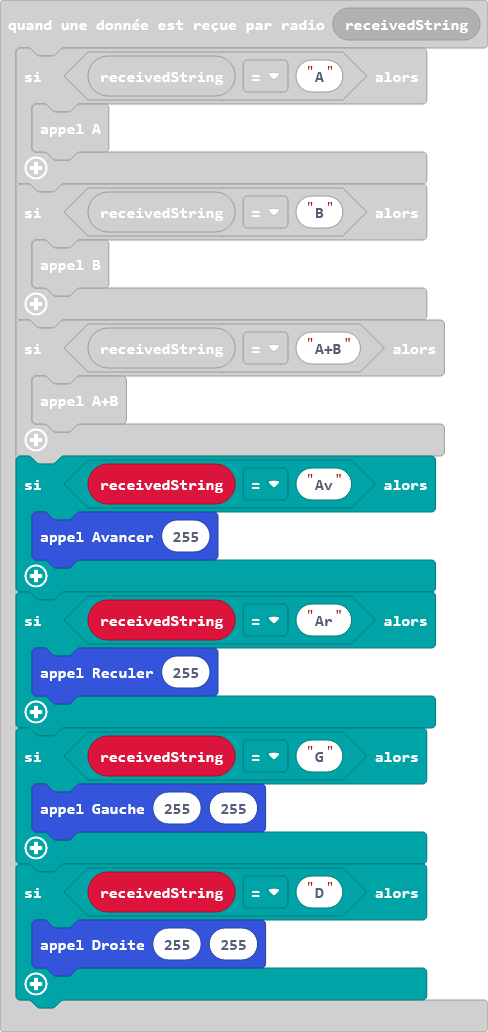
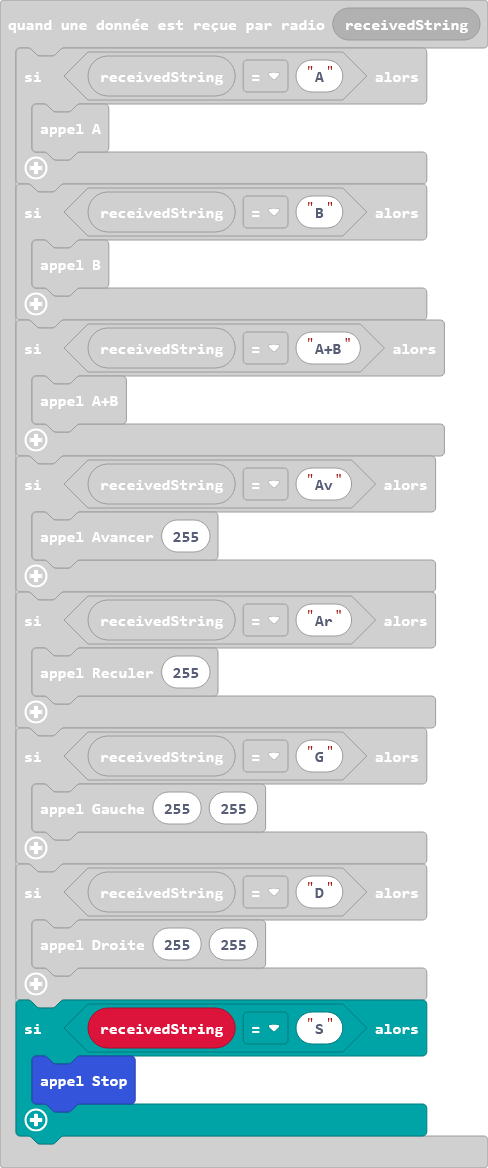
Mise à jour main.blocks, main.ts

diff --git a/main.ts b/main.ts
@@ -68,6 +68,9 @@ radio.onReceivedString(function (receivedString) {
     if (receivedString == "D") {
         Droite(255, 255)
     }
+    if (receivedString == "S") {
+        Stop()
+    }
 })
 function Avancer (vitesse: number) {
     basic.showArrow(ArrowNames.North)
